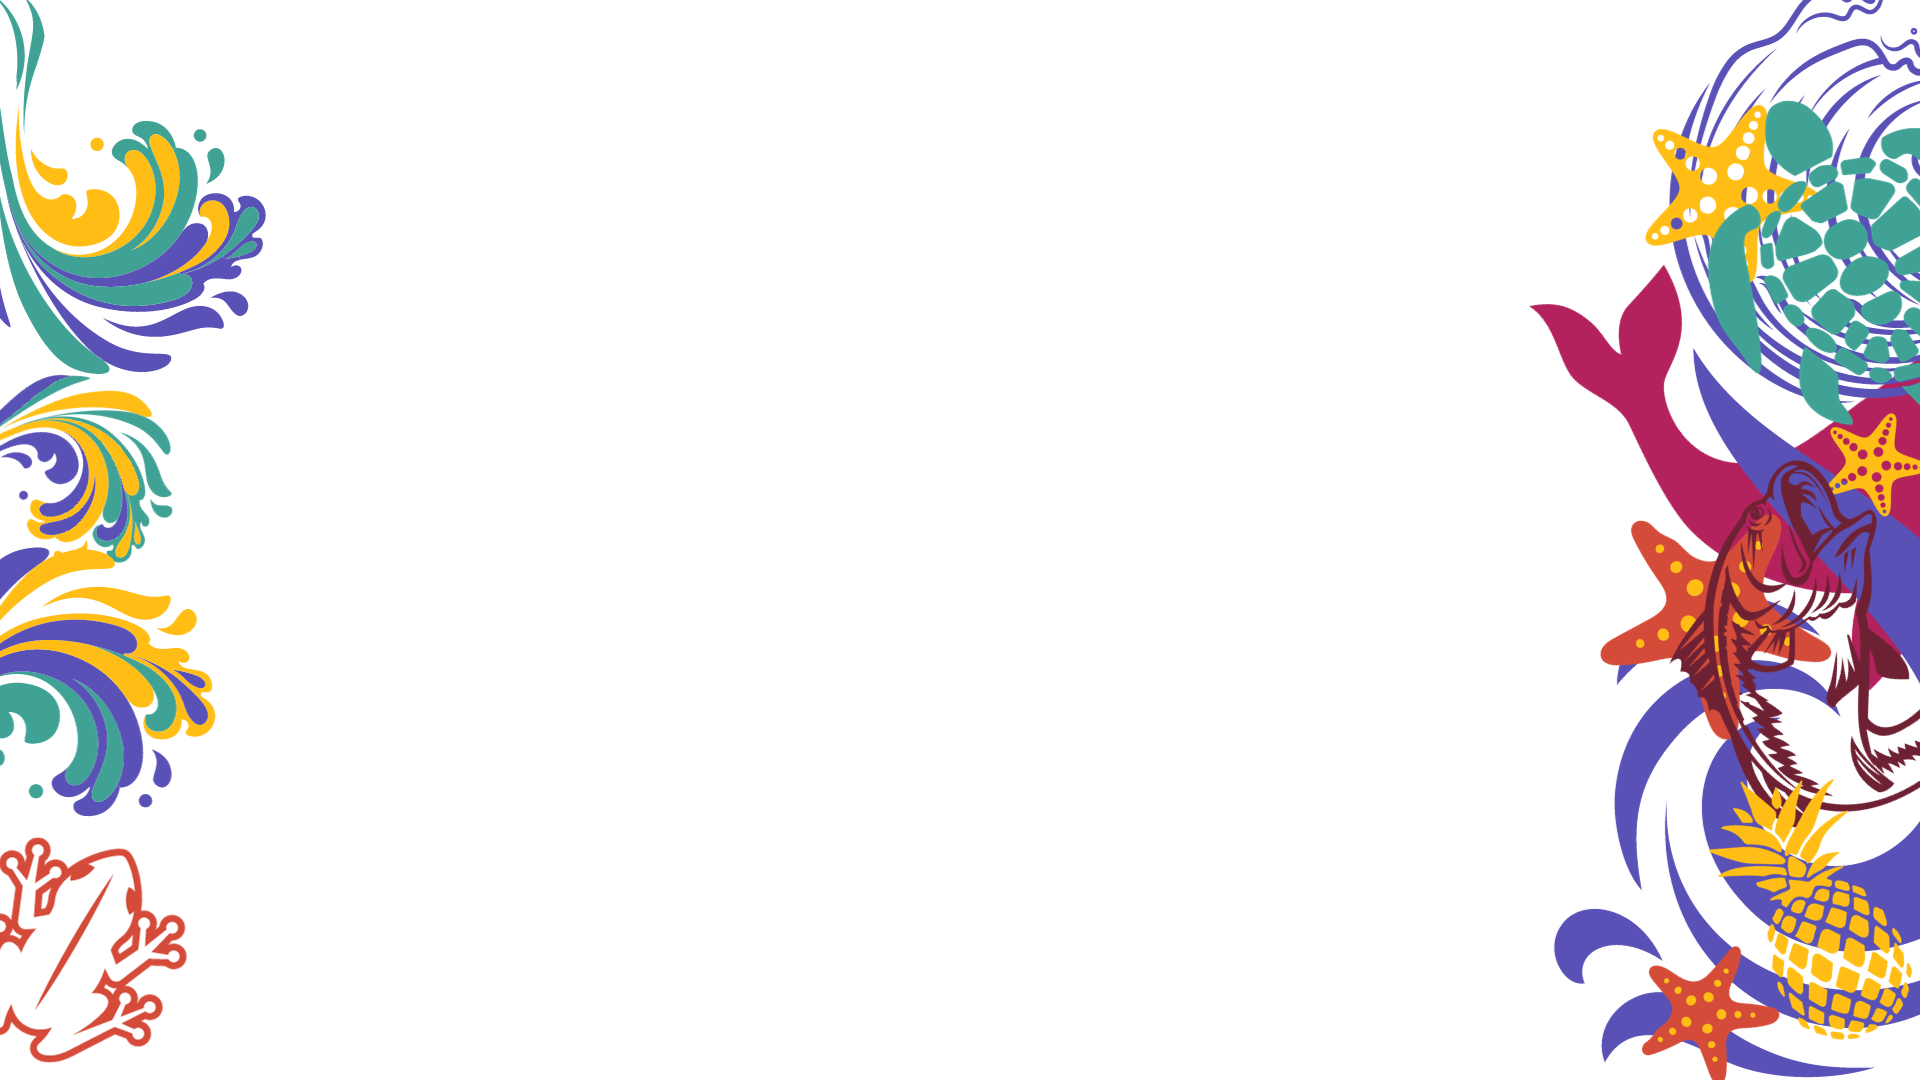
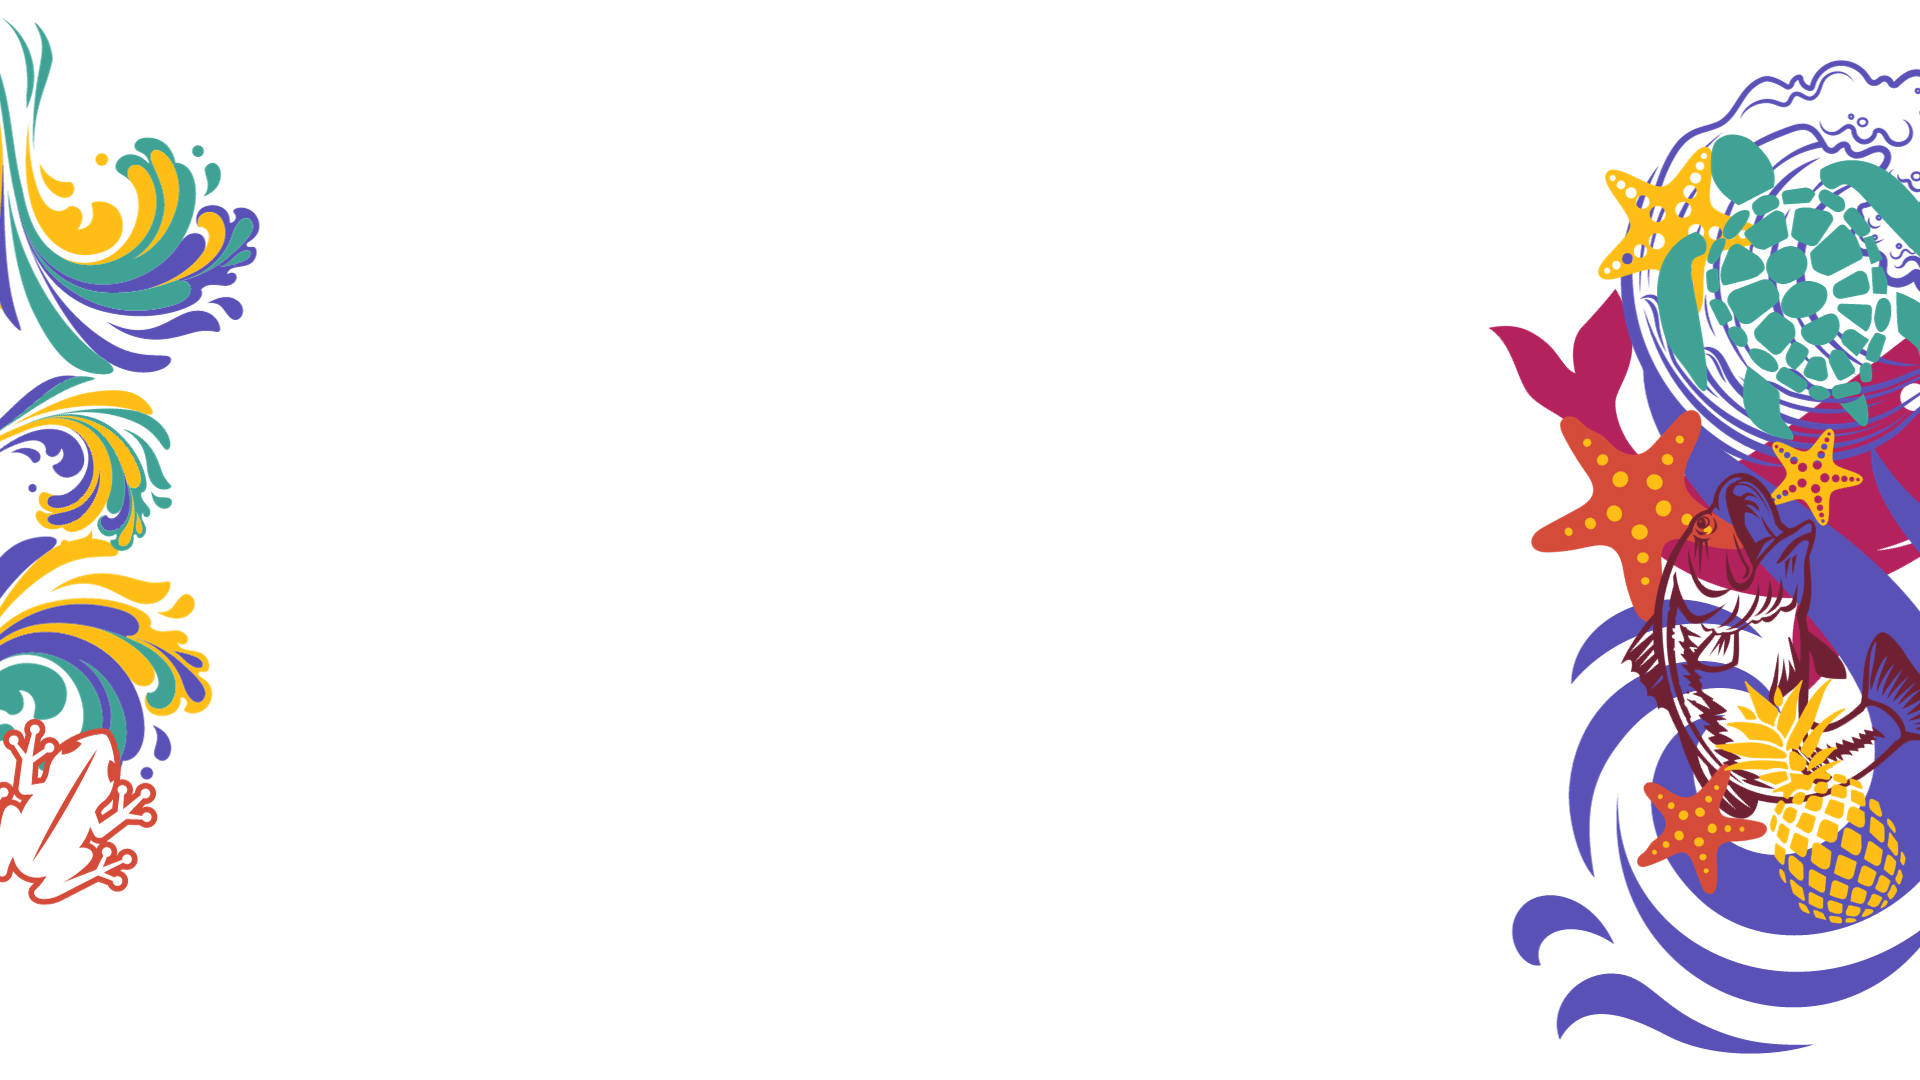
add background image

Changed region(s): [[0.7812, 0.0, 1.0, 1.0], [0.0, 0.0, 0.1562, 1.0]]

diff --git a/src/pages/NewPatientForm.jsx b/src/pages/NewPatientForm.jsx
@@ -2,7 +2,6 @@ import { useState } from "react";
 import { Link, useNavigate, useLocation } from 'react-router-dom';
 import { IoArrowUndo } from "react-icons/io5";
 import { FaCircleCheck } from "react-icons/fa6";
-import Footer from "../components/Footer";
 import axios from '../api/axios';
 import NavBar from "../components/NavBar";
 
@@ -55,7 +54,8 @@ const NewPatient = () => {
     return (
         <>
         <NavBar />
-                <section className="form-section mt-40">
+        <img className="object-contain fixed w-screen top-0 z-[-1]" src="src/assets/Background.png"></img>
+                <section className="form-section mt-32">
                    
                     <h1 className="heading">
                         aDding pAtIent...
@@ -156,7 +156,7 @@ const NewPatient = () => {
                         <Link className="self-end my-3" to="/search"><IoArrowUndo size="60" /></Link>
                     </form>
                 </section>
-                <Footer />
+                <footer className="w-screen h-[5vh] bg-Selective sticky bottom-0" />
             
         </>
     )

diff --git a/src/components/PatientRecordDisplay.jsx b/src/components/PatientRecordDisplay.jsx
@@ -2,7 +2,7 @@ const PatientRecordDisplay = ({ patientrecord }) => {
     let entryDate = patientrecord.entryDate.slice(0, 10)
     console.log(patientrecord);
     return ( 
-        <section className="hover-item w-screen h-auto flex items-center justify-center my-8 font-Zilla">
+        <section className="bg-transparent hover-item w-screen h-auto flex items-center justify-center my-8 font-Zilla">
             <div className="w-[95vw] shadow-xl shadow-gray-800 hover:shadow-Barn transition-all bg-Amaranth border-Selective border-4 grid grid-cols-4 grid-rows-2 relative h-[350px] rounded-xl p-5">
             <h1 className="absolute left-5 text-3xl text-gray-200">Date: {entryDate}</h1>
             <div className="patient-entry-inner col-start-1 col-end-1 row-start-1 row-end-1 col-span-1 row-span-1">Treatment: {patientrecord.treatment}</div>

diff --git a/src/components/PatientCard.jsx b/src/components/PatientCard.jsx
@@ -21,7 +21,8 @@ const PatientCard = ({ patient }) => {
         }, [])
 
     return ( 
-        <section className="w-screen h-auto flex items-center justify-center mt-32">
+        
+        <section className="bg-transparent w-screen h-auto flex items-center justify-center mt-32 z-[-2]">
             <Link className="self-start my-3" to="/search"><IoArrowUndo size="80" /></Link>
             <div className="grid gap-4 grid-cols-2 grid-rows-5 bg-Iris text-gray-100 m-5 p-5 pb-10 rounded-xl font-Zilla items-center align-middle justify-center">
                 <div className="flex flex-row col-span-2 row-span-2 w-auto m-auto text-7xl justify-center align-middle items-center">

diff --git a/src/components/Footer.jsx b/src/components/Footer.jsx
@@ -1,10 +1,8 @@
 const Footer = () => {
     return ( 
-        <section className="relative">
-            <footer className="footer w-screen h-[15vh] bg-Selective sticky bottom-0">
-                <span className="font-Nova absolute text-3xl bottom-7 left-5">Imagine Systems<sup>TM</sup></span>
+            <footer className="footer w-screen h-[10vh] bg-Selective sticky bottom-0">
+                <span className="font-Nova absolute text-xl m-5 left-5">Imagine Systems<sup>TM</sup></span>
             </footer>
-        </section>
      );
 }
  

diff --git a/src/pages/Register.jsx b/src/pages/Register.jsx
@@ -98,10 +98,11 @@ const Register = () => {
     return (
         <>
         <Header />
+        <img className="object-contain fixed z-[-1] top-0" src="src/assets/Background.png"></img>
                 <section className="form-section">
                     <p ref={errRef} className={errMsg ? "errmsg" : "offscreen"} aria-live="assertive">{errMsg}</p>
                    
-                    <h1 className="heading">
+                    <h1 className="heading mt-32">
                         creAte a nEw User
                     </h1>
 

diff --git a/src/components/Header.jsx b/src/components/Header.jsx
@@ -2,11 +2,9 @@ import { TbSunset2 } from "react-icons/tb";
 
 const Header = () => {
     return ( 
-        <section>
-            <header className="w-screen h-[15vh] bg-Selective">
-            <TbSunset2 className="text-Iris absolute right-20" size="15vh" />
+            <header className="w-screen h-[12vh] bg-Selective fixed">
+            <TbSunset2 className="text-Iris absolute right-20" size="12vh" />
             </header>
-        </section>
      );
 }
  

diff --git a/src/pages/Account.jsx b/src/pages/Account.jsx
@@ -8,6 +8,7 @@ const Account = () => {
     return ( 
         <>
         <NavBar />
+        <img className="object-contain fixed z-[-1] top-0" src="src/assets/Background.png"></img>
         <section className="min-h-screen flex flex-row align-middle justify-center">
             <div className="inline-grid mt-36">
             <Link className="self-start p-10 inline-grid" to="/dashboard"><IoArrowUndo size="80" /></Link>

diff --git a/src/pages/SearchPage.jsx b/src/pages/SearchPage.jsx
@@ -21,6 +21,7 @@ function SearchPage() {
     return (
         <>
         <NavBar />
+        <img className="object-contain fixed z-[-1] top-0" src="src/assets/Background.png"></img>
         <section className='form-section mt-40 min-h-screen align-top justify-start'>
         <SearchBar patients={patients} setSearchResults={setSearchResults} />
         <PatientList searchResults={searchResults} />

diff --git a/src/pages/Login.jsx b/src/pages/Login.jsx
@@ -68,7 +68,7 @@ const Login = () => {
     return (
         <>
         <Header />
-                <section className='form-section h-[70vh]'>
+                <section className='form-section min-h-screen'>
 
                     <p ref={errRef} className={errMsg ? "errmsg" : "offscreen"} aria-live="assertive">{errMsg}</p>
                     <h1 className='heading'>Welcome tO suN CLinic</h1>

diff --git a/src/index.css b/src/index.css
@@ -86,7 +86,7 @@
     .dashboard-article {
       @apply grid grid-rows-1 grid-cols-6 m-5 p-5 font-Zilla rounded-xl 
       text-3xl bg-Persian text-gray-100 
-      align-middle items-center justify-between border-Barn border-4 w-[70vw]
+      align-middle items-center justify-between border-gray-300 border-4 w-[70vw]
       shadow-md shadow-gray-900
     }
     .patientarticle {

diff --git a/src/pages/PatientRecords.jsx b/src/pages/PatientRecords.jsx
@@ -6,7 +6,6 @@ import { RiArrowDownDoubleFill } from "react-icons/ri";
 import PatientCard from "../components/PatientCard";
 import NavBar from "../components/NavBar";
 import PatientRecordsList from "../components/PatientRecordsList";
-import Footer from "../components/Footer";
 
 const PatientRecords = () => {
     let patientData = useLocation();

diff --git a/src/pages/Dashboard.jsx b/src/pages/Dashboard.jsx
@@ -29,6 +29,7 @@ const Dashboard = () => {
     return ( 
         <>
         <NavBar />
+        <img className="object-contain fixed z-[-1] top-0" src="src/assets/Background.png"></img>
         <DashboardList myPatients={myPatients} />
         <FooterDashboard className="sticky bottom-0"/>
         </>
